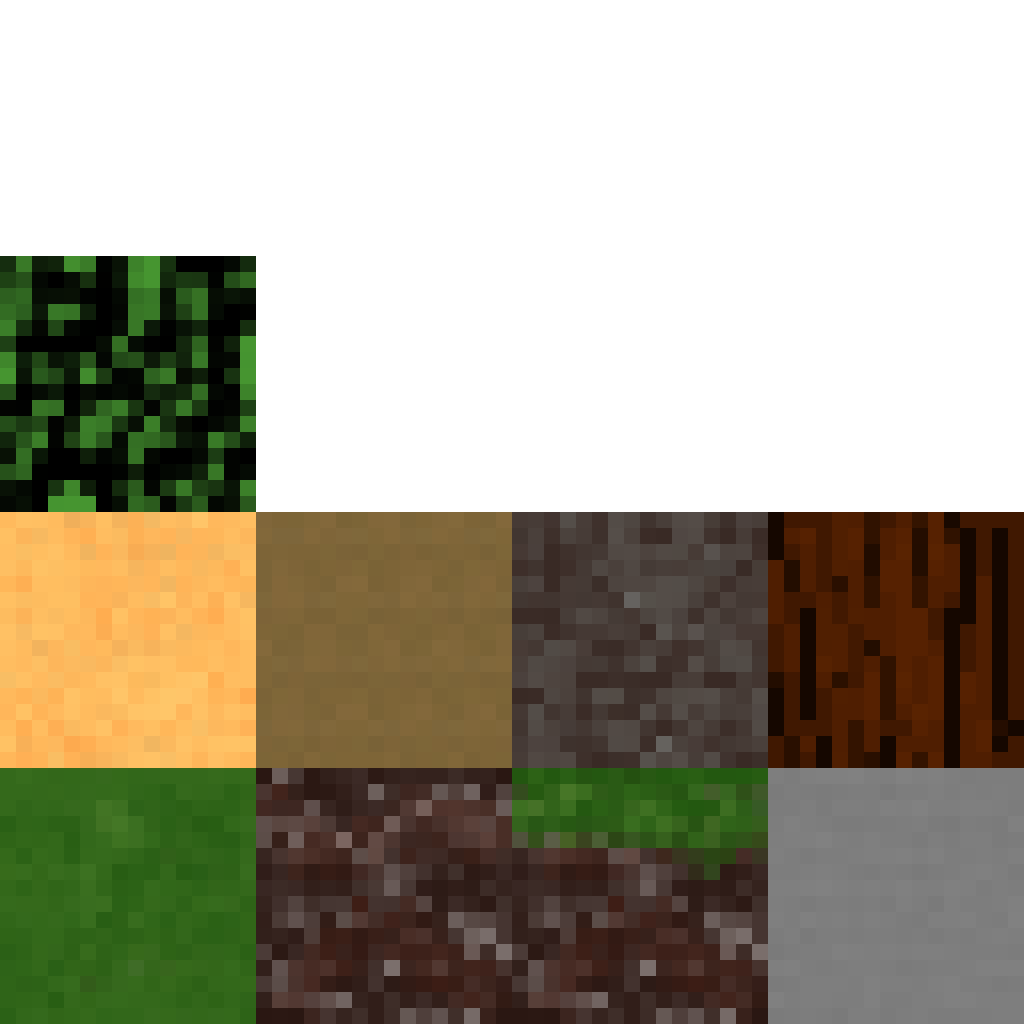
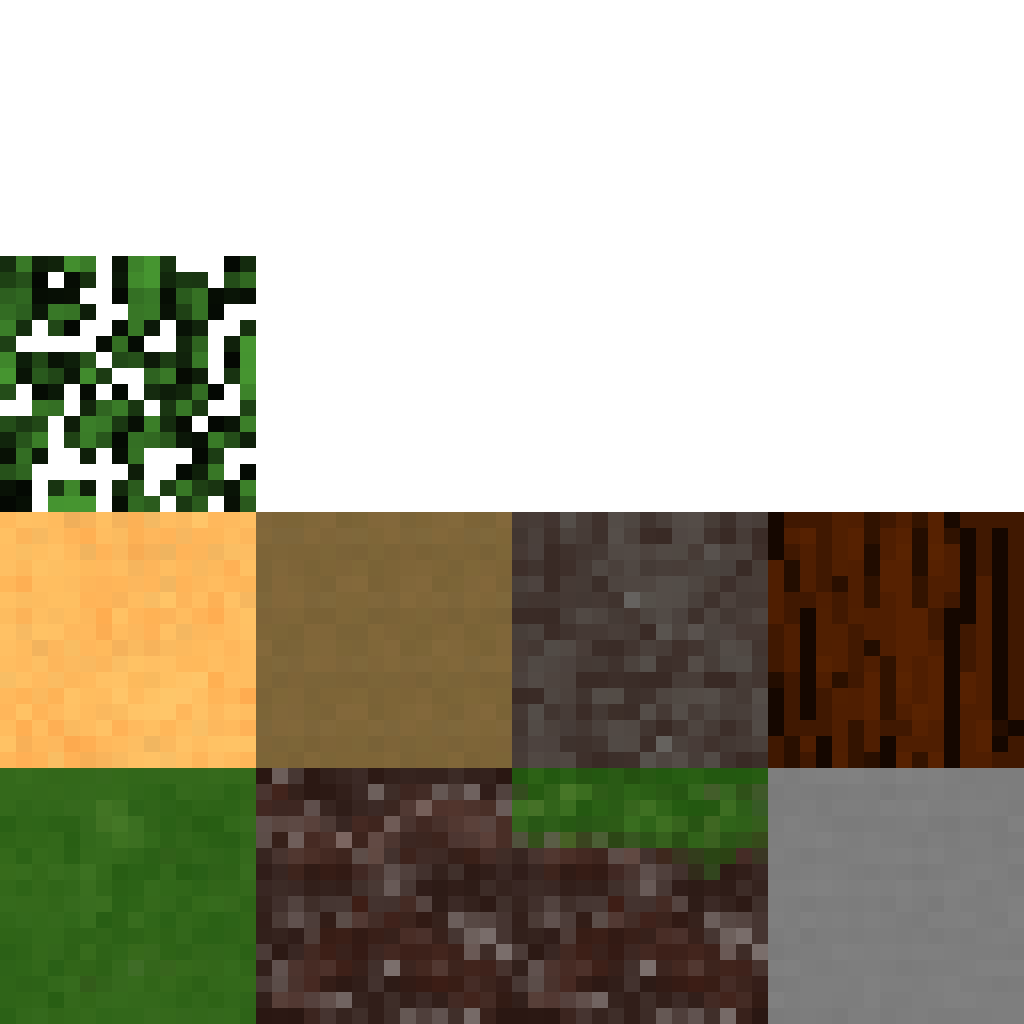
Refactored block face culling and added transparent blocks.

diff --git a/src/Game/World/Chunk.cs b/src/Game/World/Chunk.cs
@@ -84,74 +84,66 @@ class Chunk
 
     private void addBlock(int x, int y, int z)
     {
-        //Console.WriteLine( x + " " + y + " " + z );
         ushort id = voxelMap[to1D(x, y, z)];
 
         if (id == 0)
             return;
 
-        for (int i = 0; i < 6; i++)
+        for (int faceIndex = 0; faceIndex < 6; faceIndex++)
         {
-            int xBlock = VoxelData.offsets[i, 0] + x;
-            int yBlock = VoxelData.offsets[i, 1] + y;
-            int zBlock = VoxelData.offsets[i, 2] + z;
+            int neighborX = VoxelData.offsets[faceIndex, 0] + x;
+            int neighborY = VoxelData.offsets[faceIndex, 1] + y;
+            int neighborZ = VoxelData.offsets[faceIndex, 2] + z;
 
-            //RightNeighbor
-            if (xBlock > World.CHUNK_SIZE - 1)
+            if (shouldRenderFace(faceIndex, neighborX, neighborY, neighborZ, x, y, z, id))
             {
-                if (rightNeighbor == null || rightNeighbor.voxelMap[to1D(0, y, z)] == 0)
-                    chunkMesh.addFace(i, x, y, z, id, ref meshData);
-                continue;
+                chunkMesh.addFace(faceIndex, x, y, z, id, ref meshData);
             }
-
-            //LeftNeighbor
-            if (xBlock < 0)
-            {
-                if (leftNeighbor == null || leftNeighbor.voxelMap[to1D(chunkEnd, y, z)] == 0)
-                    chunkMesh.addFace(i, x, y, z, id, ref meshData);
-                continue;
-            }
-
-            //FrontNeighbor
-            if (zBlock > World.CHUNK_SIZE - 1)
-            {
-                if (frontNeighbor == null || frontNeighbor.voxelMap[to1D(x, y, 0)] == 0)
-                    chunkMesh.addFace(i, x, y, z, id, ref meshData);
-                continue;
-            }
-
-            //BackNeighbor
-            if (zBlock < 0)
-            {
-                if (backNeighbor == null || backNeighbor.voxelMap[to1D(x, y, chunkEnd)] == 0)
-                    chunkMesh.addFace(i, x, y, z, id, ref meshData);
-                continue;
-            }
-
-            if (yBlock > World.CHUNK_HEIGHT - 1)
-            {
-                continue;
-            }
-
-            if (xBlock < 0 || yBlock < 0 || zBlock < 0)
-            {
-                continue;
-            }
-
-            if (yBlock < 0)
-            {
-                chunkMesh.addFace(i, x, y, z, id, ref meshData);
-                continue;
-            }
-
-            if (voxelMap[to1D(xBlock, yBlock, zBlock)] == 0)
-            {
-                chunkMesh.addFace(i, x, y, z, id, ref meshData);
-                continue;
-            }
-
-
         }
+    }
+
+    private bool shouldRenderFace(int faceIndex, int neighborX, int neighborY, int neighborZ, int x, int y, int z, ushort blockId)
+    {
+        // Check horizontal neighbors (cross-chunk boundaries)
+        if (neighborX >= World.CHUNK_SIZE)
+            return isBlockTransparent(rightNeighbor, 0, y, z);
+
+        if (neighborX < 0)
+            return isBlockTransparent(leftNeighbor, chunkEnd, y, z);
+
+        if (neighborZ >= World.CHUNK_SIZE)
+            return isBlockTransparent(frontNeighbor, x, y, 0);
+
+        if (neighborZ < 0)
+            return isBlockTransparent(backNeighbor, x, y, chunkEnd);
+
+        // Check vertical boundaries
+        if (neighborY >= World.CHUNK_HEIGHT)
+            return false;
+
+        if (neighborY < 0)
+            return true;
+
+        // Check same-chunk neighbor
+        return isBlockTransparent(this, neighborX, neighborY, neighborZ);
+    }
+
+    private bool isBlockTransparent(Chunk chunk, int x, int y, int z)
+    {
+        if (chunk == null)
+            return true;
+
+        ushort blockId = chunk.voxelMap[to1D(x, y, z)];
+        
+        if (blockId == 0)
+            return true;
+
+        return Blocks.blocks[blockId].Transparent;
+    }
+
+    private bool isNeighborBlockTransparent(Chunk neighbor, int x, int y, int z)
+    {
+        return neighbor == null || neighbor.voxelMap[to1D(x, y, z)] == 0;
     }
 
     public void GenerateMesh()

diff --git a/src/Engine/Utils/Atlas.cs b/src/Engine/Utils/Atlas.cs
@@ -6,7 +6,7 @@ using OpenTK.Mathematics;
 class Atlas{
 
     private string file_path;
-    public Dictionary<string, Image> textures_image {get; private set;} = new Dictionary<string, Image>(); 
+    public Dictionary<string, Image<Rgba32>> textures_image {get; private set;} = new Dictionary<string, Image<Rgba32>>();
     private Dictionary<string, ushort> textures_id = new Dictionary<string, ushort>();
 
     private GlTexture atlas_texture;
@@ -20,7 +20,7 @@ class Atlas{
     }
 
     public bool TryAddTexture(string texture_name){
-        Image img;
+        Image<Rgba32> img;
        bool l = textures_image.TryGetValue(texture_name, out img);
         if (texture_name == "null") return false;
         Console.WriteLine("Tried to add " + texture_name + " Size: " + textures_image.Count() + " " + l);
@@ -59,17 +59,17 @@ class Atlas{
 
             // take the 2 source images and draw them onto the image
             outputImage.Mutate(o => {
-                
+
                 int x = 0;
                 int y = atlas_pixel_size - Blocks.TEXTURE_SIZE;
-                foreach (KeyValuePair<string, Image> entry in textures_image){
+                foreach (KeyValuePair<string, Image<Rgba32>> entry in textures_image){
                     //Console.WriteLine(x + " " + y + " max: " +  atlas_pixel_size);
                     if (x > atlas_pixel_size - 1){
                         x = 0;
                         y -= Blocks.TEXTURE_SIZE;
                     }
-                
-                    Image img = entry.Value;
+
+                    Image<Rgba32> img = entry.Value;
                     //Console.WriteLine(x + " " + y + " tried");
                     o.DrawImage(img, new Point(x, y), 1f);
                     x += Blocks.TEXTURE_SIZE;

diff --git a/src/Game/World/World.cs b/src/Game/World/World.cs
@@ -71,7 +71,7 @@ public class World
                 Chunk chunk = new Chunk(chunkPos, shader, ref generation);
                 chunks.TryAdd(chunkPos, chunk);
                 chunk.GenerateLandScape();
-                chunk.GeneratePostScape();  
+                chunk.GeneratePostScape();
             }
 
         for (int x = 0; x < size; x++)
@@ -82,7 +82,7 @@ public class World
                 chunk.backNeighbor  = y != 0  ? chunks[new Vector2(x,y - 1)] : null;
                 chunk.leftNeighbor  = x != 0  ? chunks[new Vector2(x - 1,y)] : null;
                 chunk.rightNeighbor = x != size - 1  ? chunks[new Vector2(x + 1,y)] : null;
-                chunk.GenerateMesh(); 
+                chunk.GenerateMesh();
                 chunksAddMesh.Add(chunk);
             }
 
@@ -249,10 +249,10 @@ public class World
 
             ch.setVoxelMapBlock(x, yWorld, z, id);
         }
-        else
-        {
-            Console.WriteLine("Couldnt set block in " + xChunk + " " + zChunk + " || " + xWorld + " " + yWorld + " " + zWorld);
-        }
+        // else
+        // {
+        //     Console.WriteLine("Couldnt set block in " + xChunk + " " + zChunk + " || " + xWorld + " " + yWorld + " " + zWorld);
+        // }
 
 
     }

diff --git a/src/Game/World/Block.cs b/src/Game/World/Block.cs
@@ -28,6 +28,7 @@ class YamlBlock {
     public string? back_texture;
     public string? left_texture;
     public string? right_texture;
+    public bool transparent;
 }
 
 public class Block {
@@ -35,16 +36,18 @@ public class Block {
     public string BlockName {get; private set;}
     public string[] TexturesName  {get; private set;} = new string[6];
     public ushort[] TexturesIds  {get; private set;} = new ushort[6];
+    public bool Transparent {get; private set;}
 
     public List<float[,,]> TexturesUVs {get; private set;} = new List<float[,,]>();
     public uint ID {get; private set;}
 
-    public Block(string name, uint id, ushort[] TexturesIds, string[] TexturesName){
+    public Block(string name, uint id, ushort[] TexturesIds, string[] TexturesName, bool transparent = false){
         this.BlockName = name;
         this.ID = id;
         this.TexturesName = TexturesName;
         this.TexturesIds = TexturesIds;
         this.TexturesUVs = TexturesUVs;
+        this.Transparent = transparent;
     }
 
     public void setUvs(List<float[,,]>  TexturesUVs){

diff --git a/src/Game/World/Blocks.cs b/src/Game/World/Blocks.cs
@@ -96,7 +96,8 @@ static class Blocks {
             }
 
          
-            Block block = new Block(dataBlock.block_name, (ushort)dataBlock.id, textureIds, texturesName);
+            bool isTransparent = dataBlock.transparent;
+            Block block = new Block(dataBlock.block_name, (ushort)dataBlock.id, textureIds, texturesName, isTransparent);
             blocks.Add(block.ID,block);
             #endregion
         }
